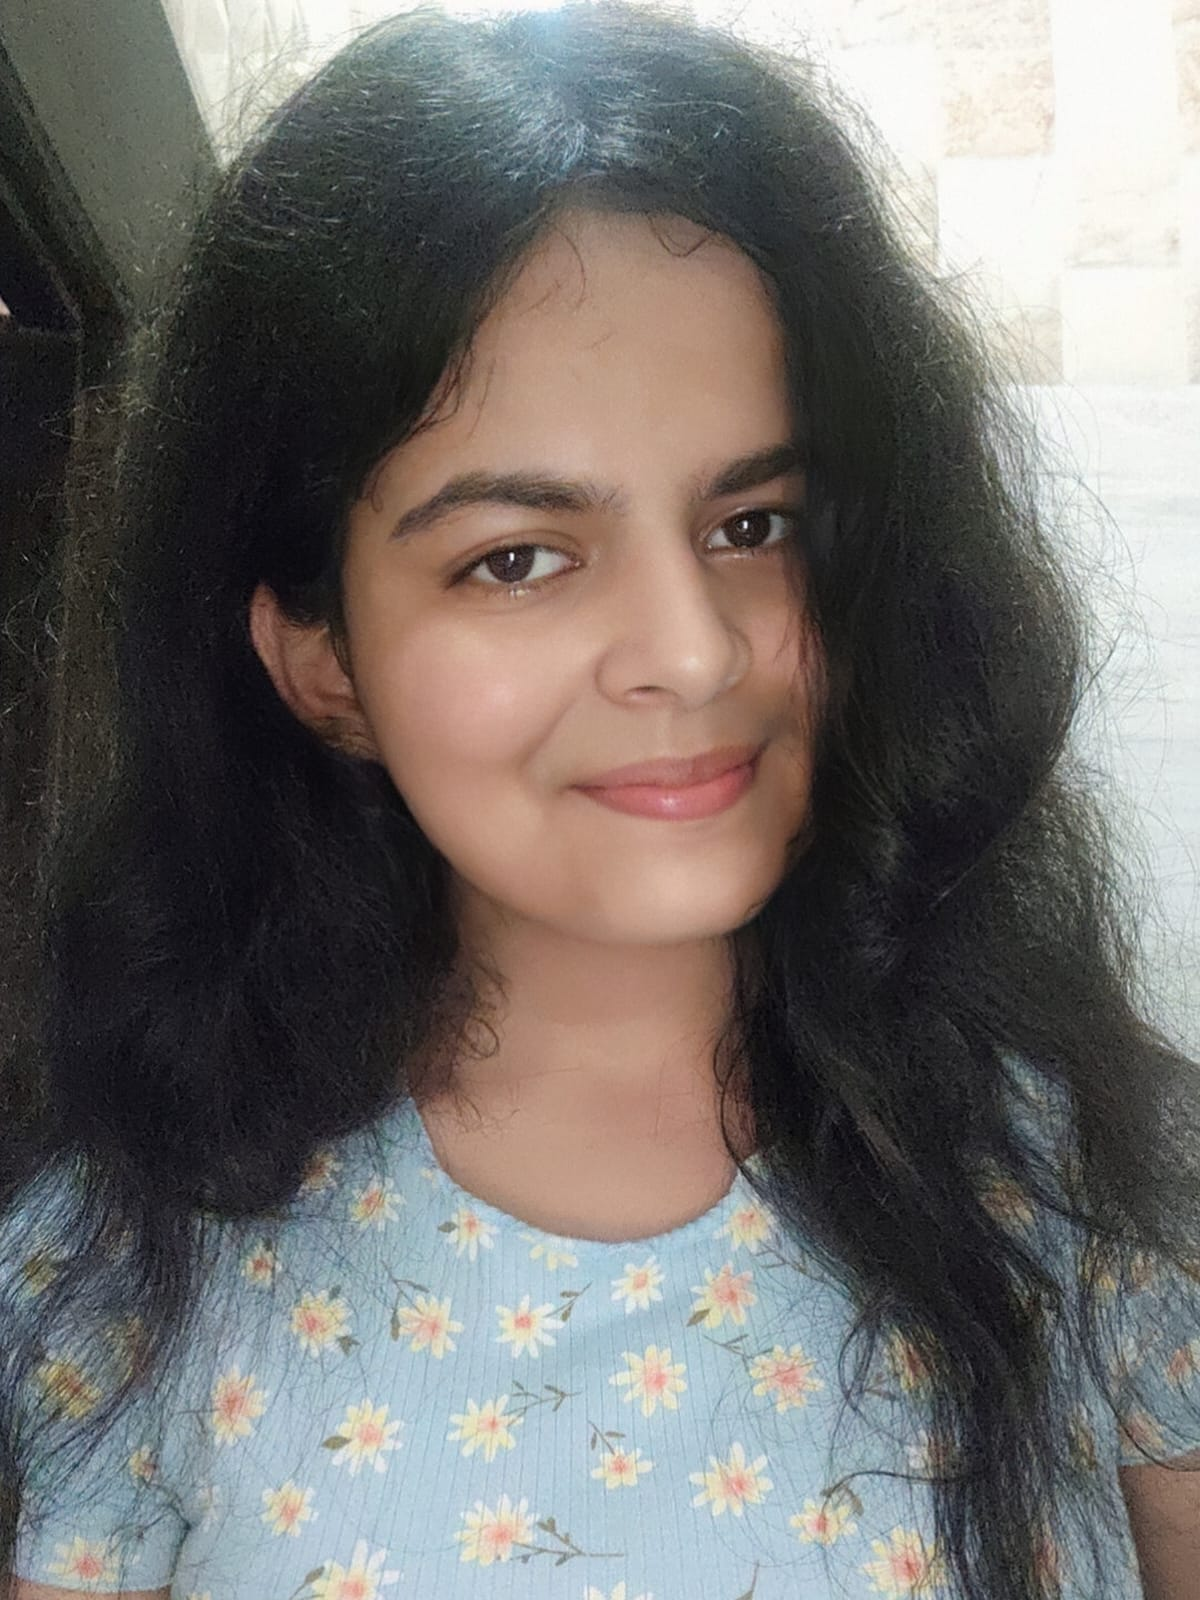
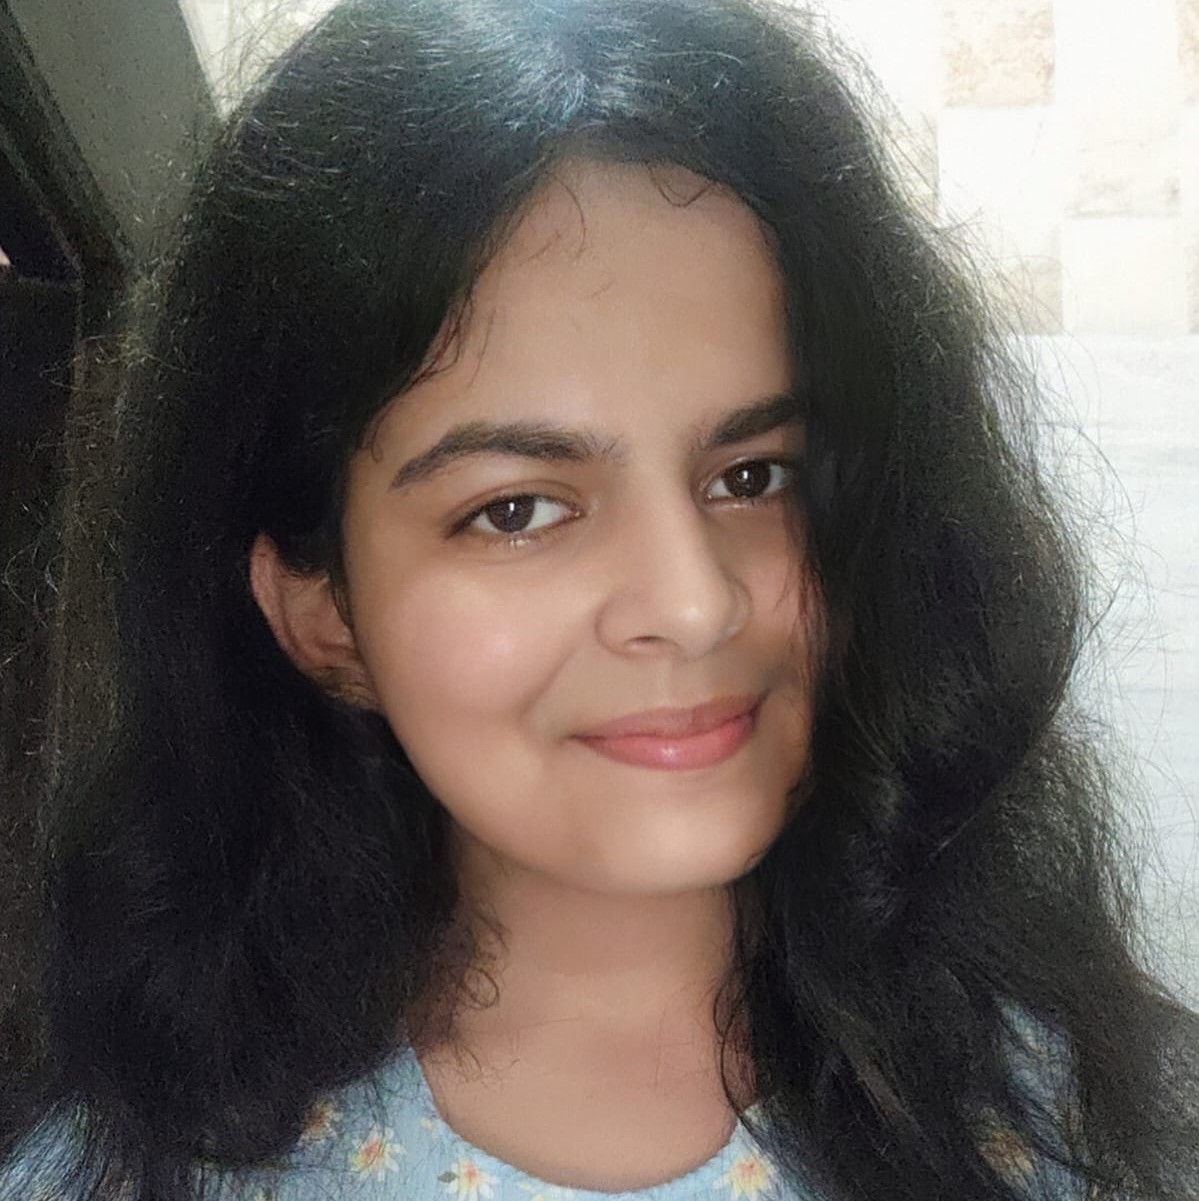
Add and Implement Images in Core Team: Reeya

diff --git a/index.html b/index.html
@@ -629,7 +629,7 @@
 						>
 							<div class="member">
 								<img
-									src="img/core team/photoNotFound.png"
+									src="img/core team/Reeya.jpeg"
 									class="img-fluid"
 									alt=""
 								/>
